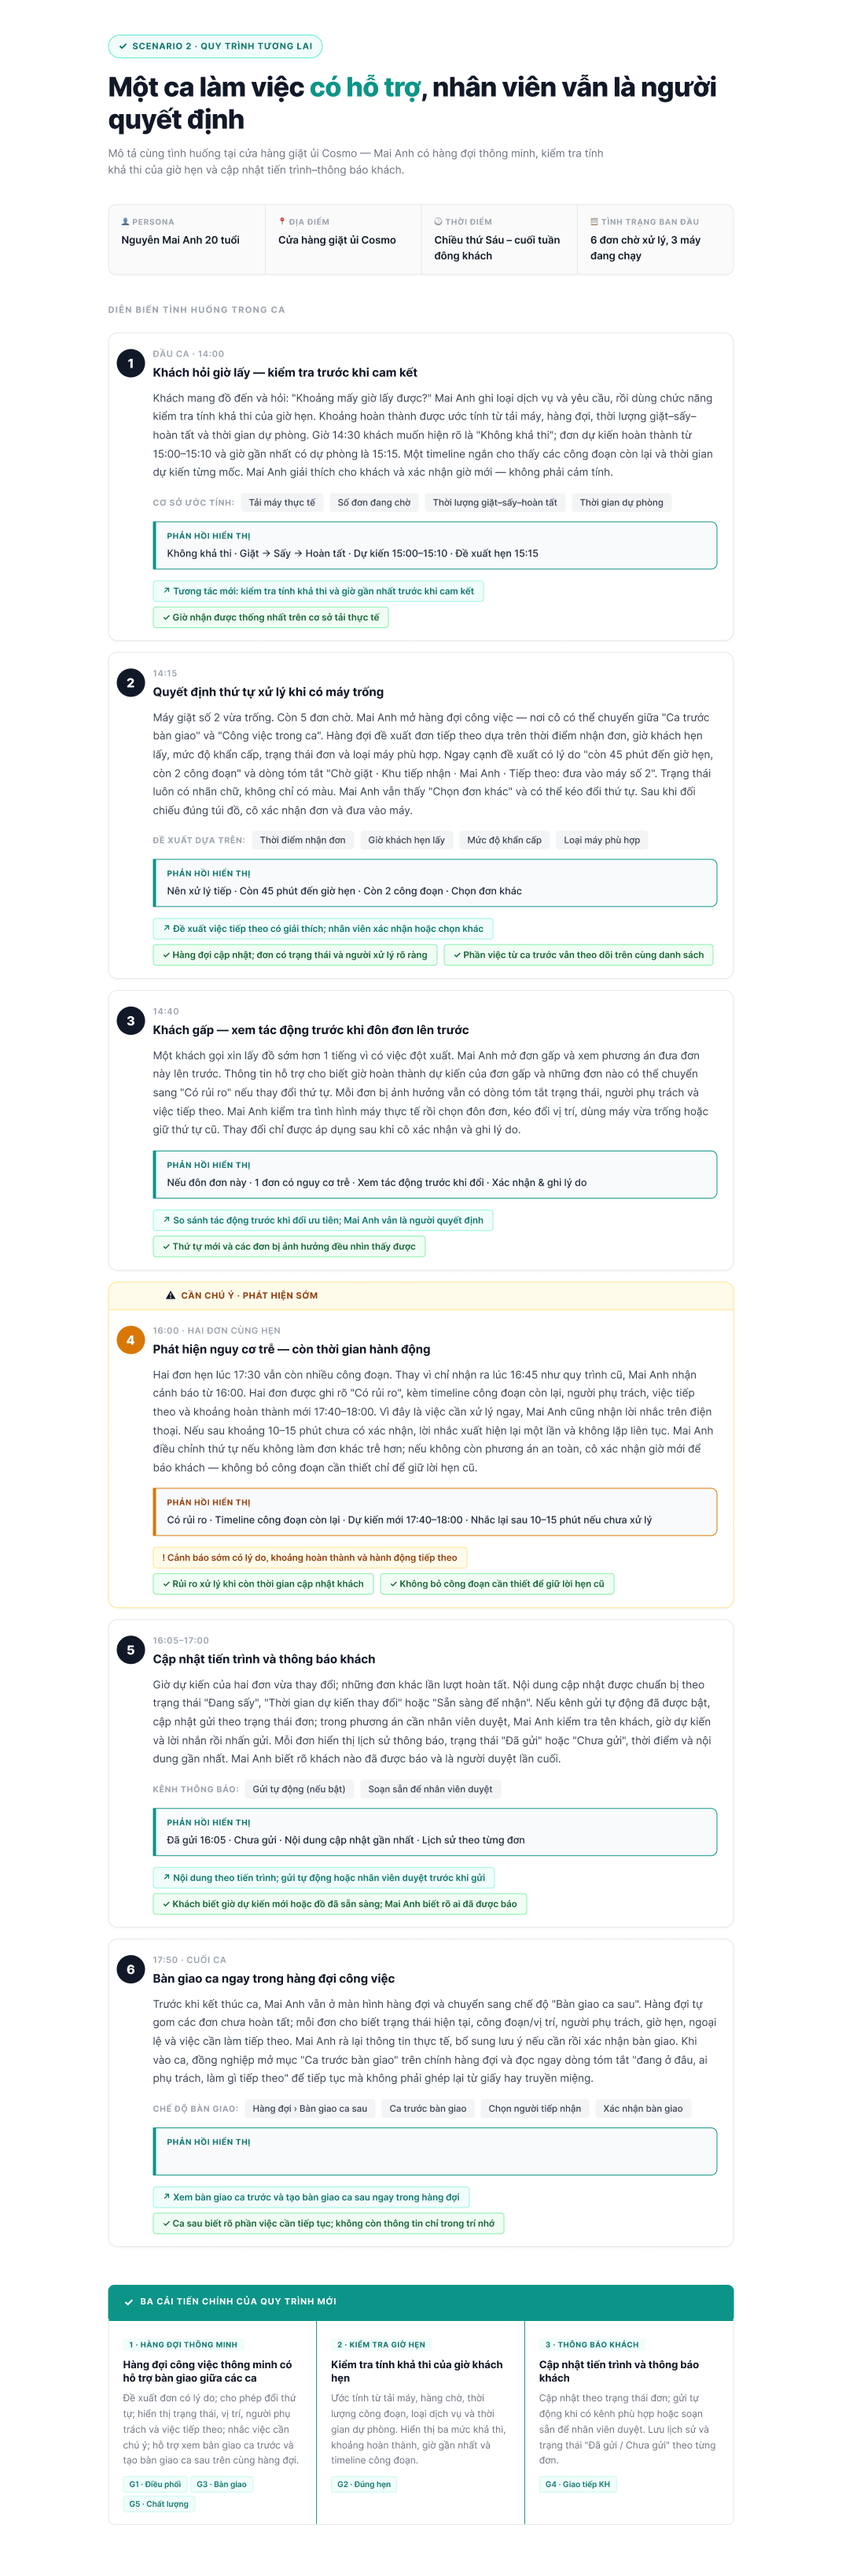
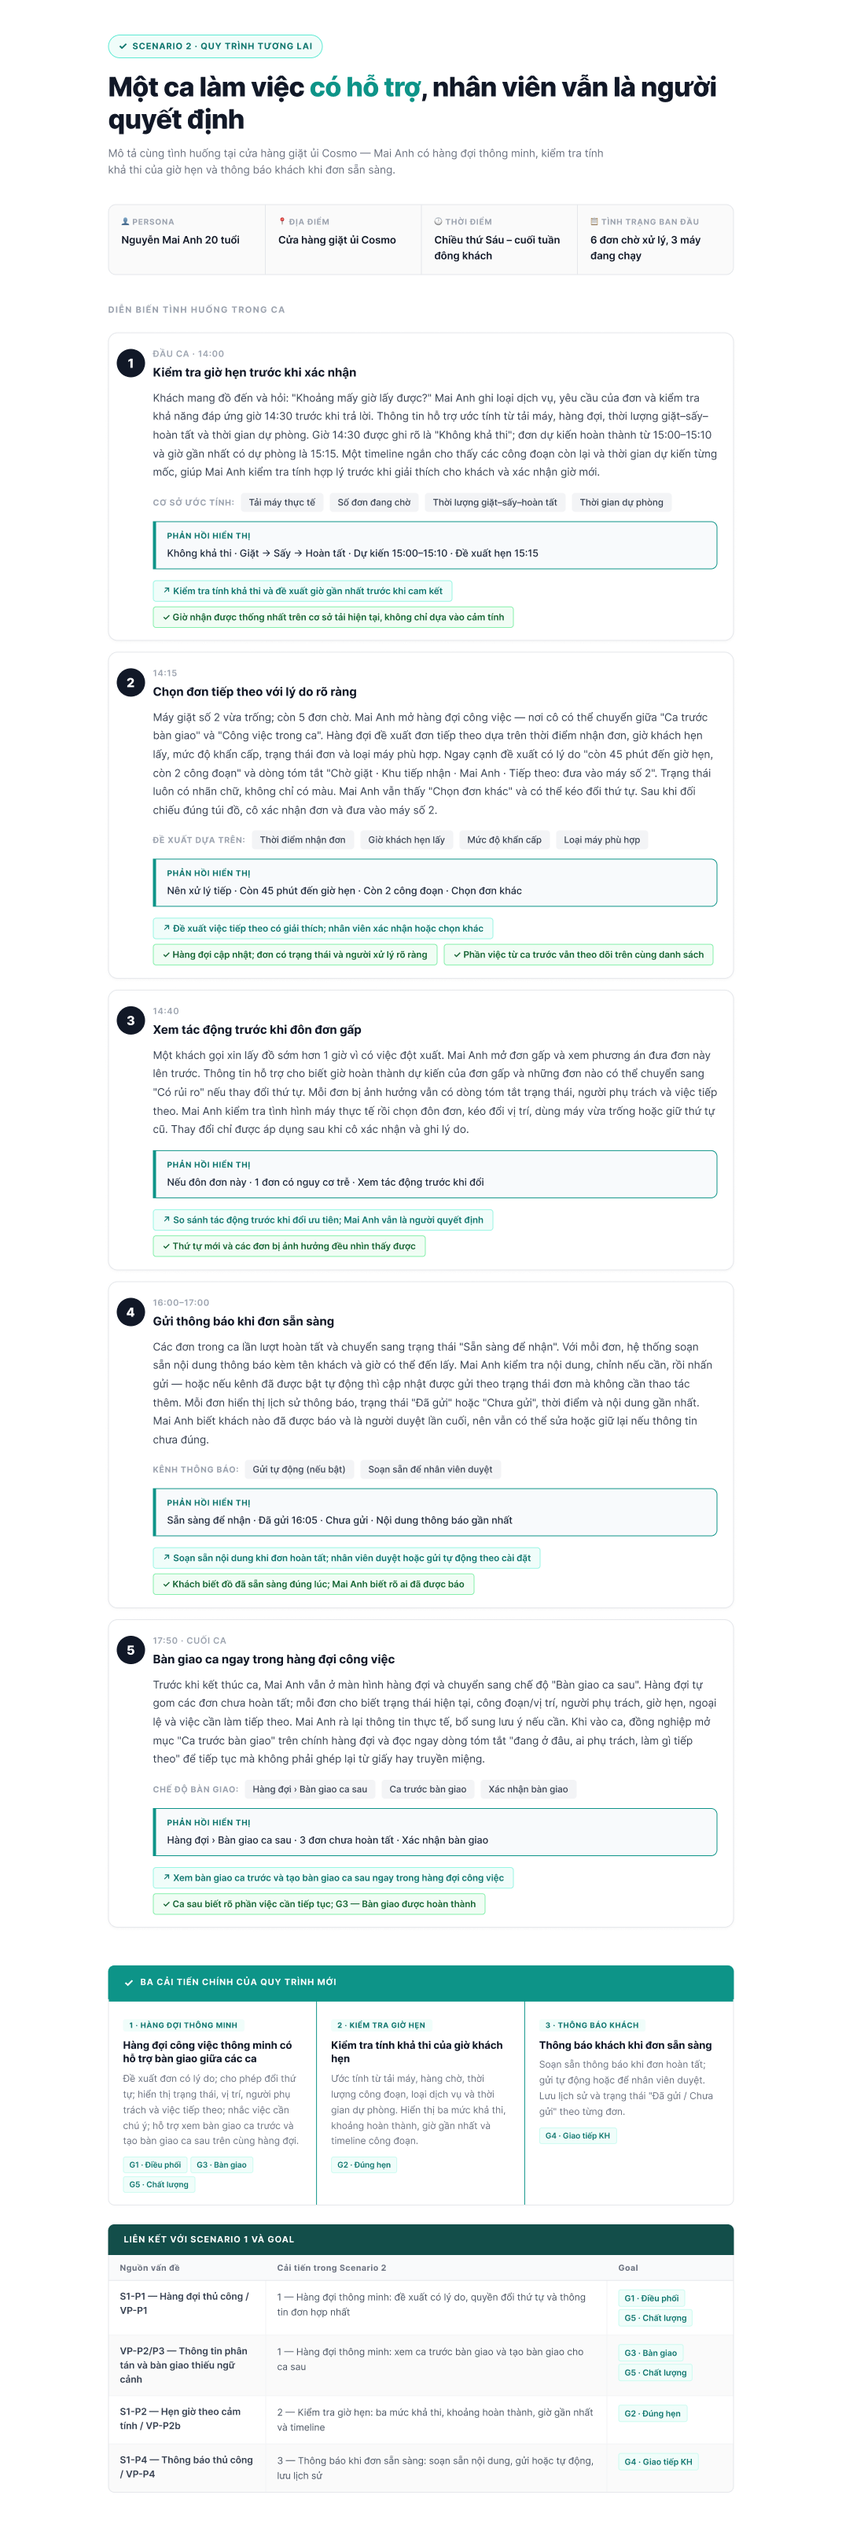
fix: logic scenario-2.md & png

diff --git a/Skills/scenario-2/skill.md b/Skills/scenario-2/skill.md
@@ -1,6 +1,6 @@
 ---
 name: scenario-2
-description: Dùng để viết Scenario 2 (hệ thống tương lai) cho đồ án HCI — mô tả tường thuật ca làm việc sau khi có hệ thống hỗ trợ, đối chiếu trực tiếp với Scenario 1 để làm nổi bật cách các tính năng mới giải quyết 4 pain points (P1–P4).
+description: Dùng để viết Scenario 2 (hệ thống tương lai) cho đồ án HCI — mô tả tường thuật ca làm việc sau khi có hệ thống hỗ trợ, đối chiếu trực tiếp với Scenario 1 để làm nổi bật cách ba tính năng mới giải quyết P1, P2 và P4.
 ---
 
 # Skill Scenario 2 — Hệ thống tương lai
@@ -56,11 +56,18 @@ Skill này giúp Agent:
 
 1. **Khớp bối cảnh:** Sao chép chính xác bối cảnh (Persona, thời gian, địa điểm, tình trạng ban đầu) từ Scenario 1.
 2. **Đối chiếu trực tiếp:** Mỗi pain point (P1-P4) trong Scenario 1 phải có một tình huống tương ứng trong Scenario 2 thể hiện cách giải quyết.
-3. **Chỉ minh họa các tính năng trong phạm vi (1, 3, 4):**
-   - Hàng đợi công việc thông minh (giải quyết P1, P3).
-   - Kiểm tra tính khả thi giờ hẹn (giải quyết P2).
-   - Cập nhật tiến trình và thông báo (giải quyết P4).
-   - Không sáng tạo thêm tính năng như robot tự giặt, máy tự xếp đồ.
+3. **Chỉ minh họa các tính năng trong phạm vi:**
+   - **Tính năng 1 — Hàng đợi công việc thông minh** (giải quyết P1, P3):
+     - Đề xuất đơn tiếp theo có lý do rõ ràng; nhân viên được xác nhận hoặc đổi thứ tự.
+     - Hiển thị trạng thái, vị trí, người phụ trách và việc cần làm tiếp theo.
+     - Hỗ trợ xem tác động trước khi đôn đơn gấp.
+     - Xem bàn giao ca trước và tạo bàn giao ca sau trên cùng hàng đợi.
+   - **Tính năng 2 — Kiểm tra tính khả thi giờ hẹn** (giải quyết P2):
+     - Ba mức khả thi, khoảng hoàn thành, giờ gần nhất và timeline công đoạn.
+   - **Tính năng 3 — Thông báo khách khi đơn sẵn sàng** (giải quyết P4):
+     - Soạn sẵn nội dung khi đơn hoàn tất (địch tự nhân viên liên lạc Zalo thủ công).
+     - Mục đích báo khách khi đồ sẵn sàng để nhận.
+     - Gửi tự động hoặc để nhân viên duyệt; lưu lịch sử và trạng thái gửi theo từng đơn.
 4. **Không nói quá (No overclaiming):** Tránh khẳng định hệ thống giúp tăng doanh thu 300% hay giảm 100% lỗi. Chỉ mô tả nhân viên làm việc trôi chảy hơn, có thông tin rõ ràng hơn.
 
 ## Validation Checklist
